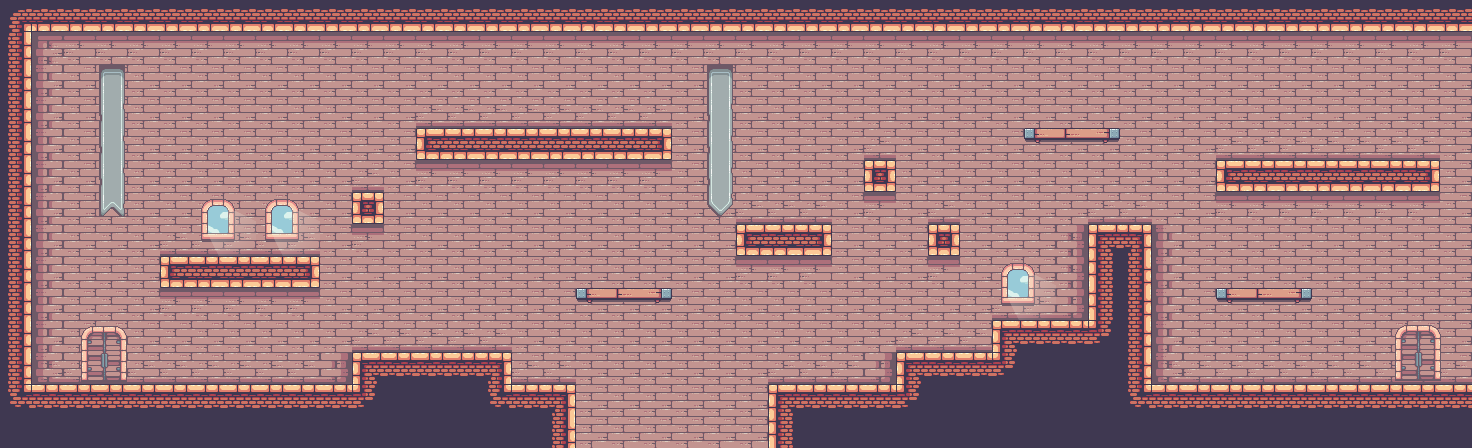
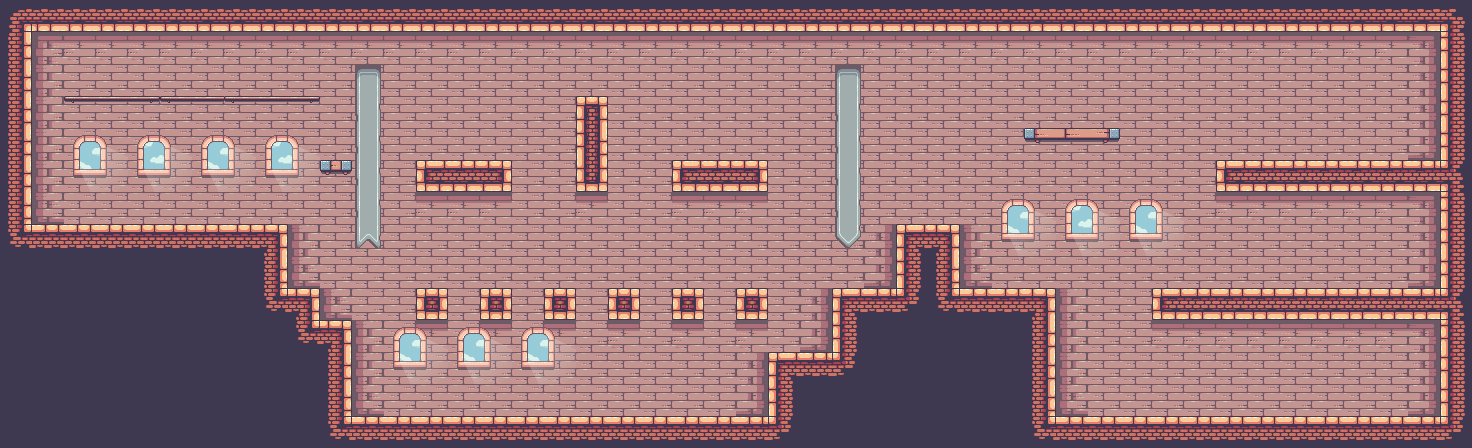
added a new level

diff --git a/src/main/java/levels/LevelManager.java b/src/main/java/levels/LevelManager.java
@@ -53,11 +53,14 @@ public class LevelManager {
             // The Level constructor uses the BufferedImage from the array and the TMX path string
             levels.add(new Level(
                     LoadSave.GetLevelDataFromTMX(
-                            tmxFilePath, // Replaces LoadSave.TMX_LEVEL
+                            tmxFilePath,
                             COLLISION_LAYER_NAME,
                             TILES_IN_WIDTH + 20,
                             TILES_IN_HEIGHT
-                    ),lvlIndex,allLevels[i]
+                    ),
+                    i,  // ← Change lvlIndex to i
+                    allLevels[i]
+
             ));
         }
 

diff --git a/README.md b/README.md
@@ -53,6 +53,7 @@ I implemented:
 - **Classes** — reusable for UI, entities, levels
 - **Interfaces** — clean contracts for logic components 
 - **Enums** — handling game states 
+- **Tiled** — using Tiled Map Editor for level design
 
 ### 🧩 Object-Oriented Programming
 
